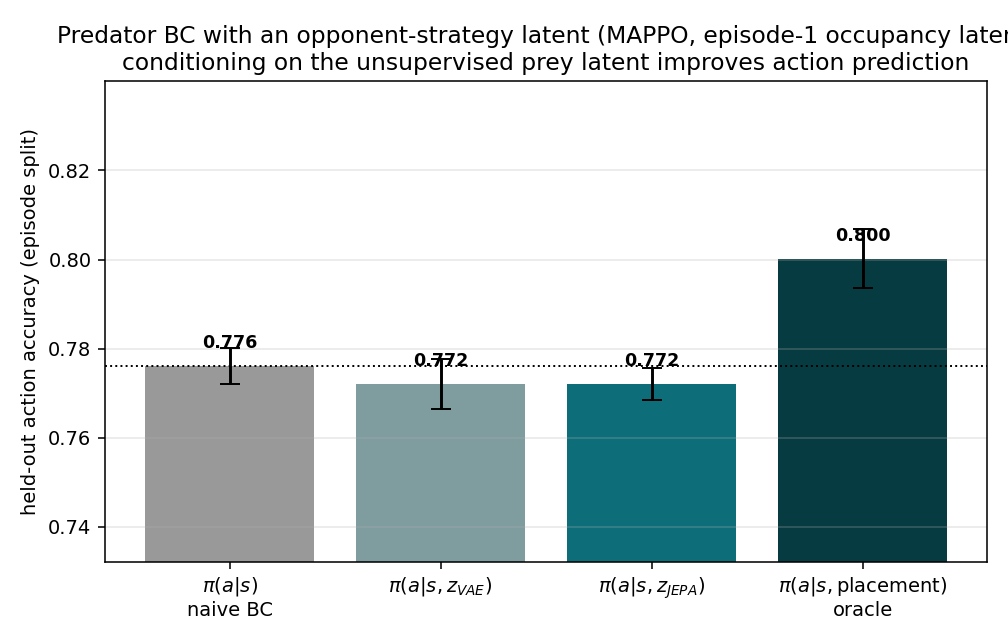
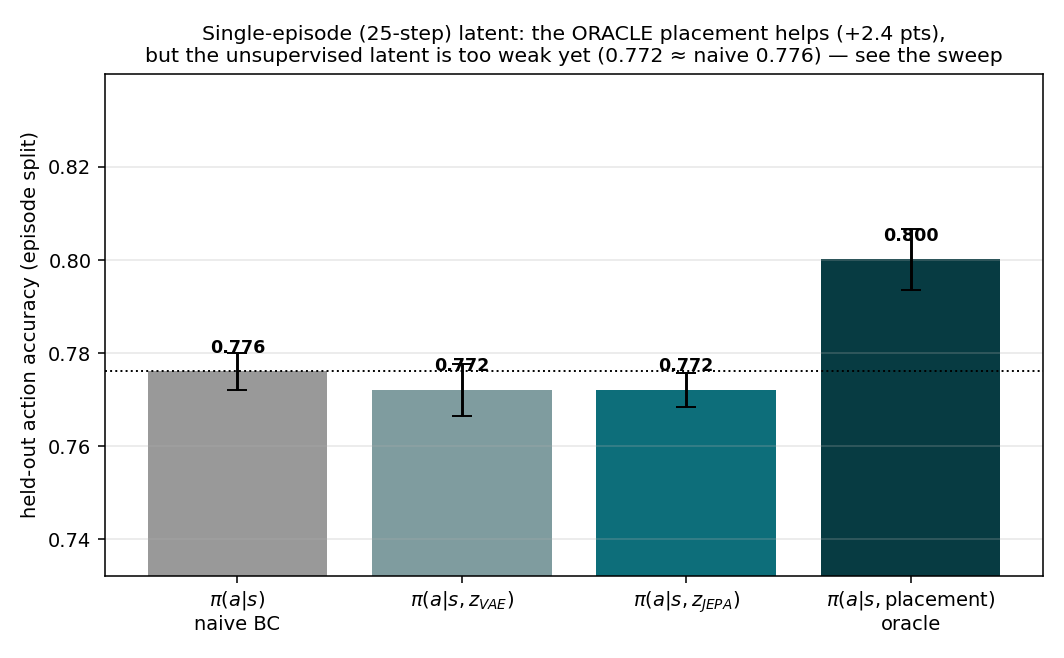
honest title on episode-1 bc bars: latent too weak yet, oracle helps

diff --git a/mopa/experiments/bc_latent.py b/mopa/experiments/bc_latent.py
@@ -81,8 +81,8 @@ def main():
     ax.set_ylabel("held-out action accuracy (episode split)")
     ax.set_title(f"Predator BC with an opponent-strategy latent "
                  f"({args.algorithm.upper()}, episode-1 occupancy latent)\n"
-                 "conditioning on the unsupervised prey latent improves "
-                 "action prediction")
+                 "at one episode the latent is too weak; the oracle helps "
+                 "(see the observation sweep)")
     lo = min(vals) - 3 * max(errs) - 0.02
     ax.set_ylim(max(0.0, lo), max(vals) + 3 * max(errs) + 0.02)
     for bar, v in zip(bars, vals):